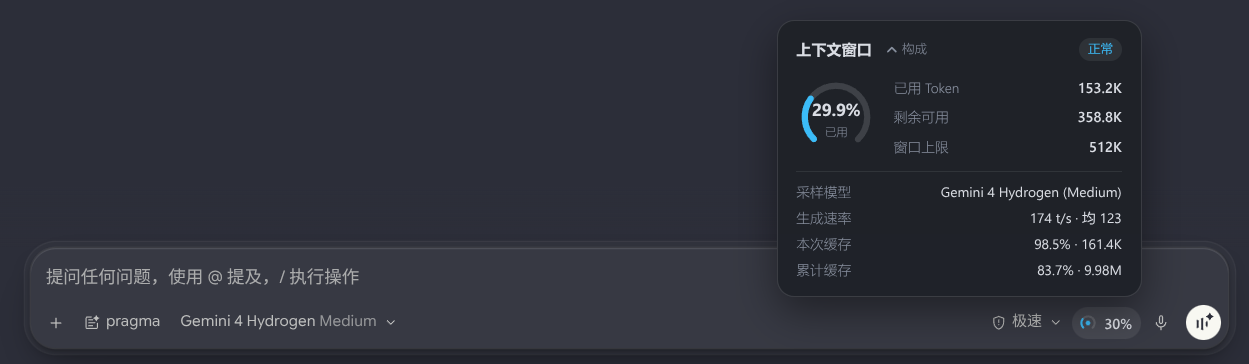
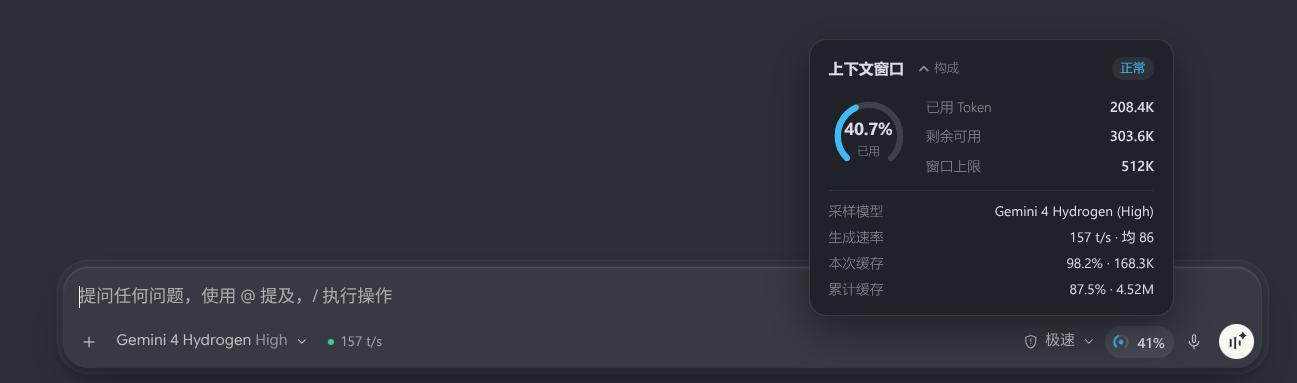
feat: 适配 Antigravity v2.35.2 汉化，修复模型用量配额实时扣减丢失「% 剩余」后缀（Issue #13），同步插件市场新增及改版插件并清理过期词条
- 同步更新 `README.md` 与 `AGENTS.md` 中的汉化版本、匹配客户端版本（v2.35.2）及最近更新日期（2026-11-26）。
- 修复 `localization_engine.js` 中 `translateCombinedTextChildren()` 清空 React 静态兄弟文本节点导致配额百分比实时变动后丢失「% 剩余」后缀的问题（Issue #13 @DEXTERKEY）：新增 `applyCombinedTextRunPreservingAnchors()`，对数字/百分比及原样保留的动态文本节点实行边界锚定与原地保留，仅将译文前后缀写回相邻静态兄弟节点，从根源避免同类 React 局部刷新丢失前后缀。
- 补充 `dicts/release.json` v2.35.2 新增界面与 `/btw` 提示词条（`Create a project on this computer or remotely.`、`Applies to /btw and messages sent after this turn`、`Applies to messages sent after this turn`、`Clone from This Computer`、`Search Repositories…`），并经客户端 `main.js` 源码检索后清理 7 条已下架的 Argon/Neon/Carbon 编排器及模型运行态锁定过期词条。
- 同步 `dicts/marketplace_plugins.json` 官方插件市场：新增 `mass-spectrometry` 与 `anydo` 卡片简介及建议提示词，原位替换 `kling-ai` 与 `mumo` 改版简介与提示词并清理旧文案，保持插件市场（109/109 款）与 MCP 商店（99/99 款）100% 同步。
- 更新 `showimg/showcontext.png` 展示截图。

diff --git a/localization_engine.js b/localization_engine.js
@@ -5798,6 +5798,137 @@ function getModelUnavailableRetryTranslation(value) {
         return null;
     }
 
+    function applyCombinedTextRunPreservingAnchors(textRun, translated) {
+        if (!textRun || textRun.length < 2 || !translated) return false;
+
+        const isAsciiWordChar = ch => Boolean(ch) && /[A-Za-z0-9]/.test(ch);
+        const hasCleanBoundary = (str, start, end, token) => {
+            if (!token) return false;
+            if (isAsciiWordChar(token[0]) && start > 0 && isAsciiWordChar(str[start - 1])) return false;
+            if (isAsciiWordChar(token[token.length - 1]) && end < str.length && isAsciiWordChar(str[end])) return false;
+            return true;
+        };
+        const countOccurrences = (str, sub, fromIdx) => {
+            let count = 0;
+            let idx = fromIdx;
+            while (idx <= str.length - sub.length) {
+                const found = str.indexOf(sub, idx);
+                if (found < 0) break;
+                if (hasCleanBoundary(str, found, found + sub.length, sub)) {
+                    count++;
+                    idx = found + sub.length;
+                } else {
+                    idx = found + 1;
+                }
+            }
+            return count;
+        };
+        const findNextMatch = (str, sub, fromIdx) => {
+            let idx = fromIdx;
+            while (idx <= str.length - sub.length) {
+                const found = str.indexOf(sub, idx);
+                if (found < 0) return -1;
+                if (hasCleanBoundary(str, found, found + sub.length, sub)) return found;
+                idx = found + 1;
+            }
+            return -1;
+        };
+
+        const tryAnchorIndices = candidateIndices => {
+            if (!candidateIndices || candidateIndices.length === 0) return false;
+            const matched = [];
+            let cursor = 0;
+
+            for (let ci = 0; ci < candidateIndices.length; ci++) {
+                const nodeIdx = candidateIndices[ci];
+                const raw = textRun[nodeIdx].nodeValue || '';
+                if (!raw) return false;
+
+                let pos = -1;
+                if (nodeIdx === 0) {
+                    if (translated.startsWith(raw) && hasCleanBoundary(translated, 0, raw.length, raw)) {
+                        pos = 0;
+                    }
+                } else if (nodeIdx === textRun.length - 1) {
+                    const endPos = translated.length - raw.length;
+                    if (endPos >= cursor && translated.endsWith(raw) && hasCleanBoundary(translated, endPos, translated.length, raw)) {
+                        pos = endPos;
+                    }
+                } else {
+                    let remainingSame = 1;
+                    for (let cj = ci + 1; cj < candidateIndices.length; cj++) {
+                        if ((textRun[candidateIndices[cj]].nodeValue || '') === raw) remainingSame++;
+                    }
+                    if (countOccurrences(translated, raw, cursor) === remainingSame) {
+                        pos = findNextMatch(translated, raw, cursor);
+                    }
+                }
+
+                if (pos < cursor) return false;
+                if (matched.length > 0) {
+                    const prev = matched[matched.length - 1];
+                    const between = translated.slice(prev.pos + prev.raw.length, pos);
+                    if (between && nodeIdx - prev.index <= 1) return false;
+                }
+
+                matched.push({ index: nodeIdx, raw, pos });
+                cursor = pos + raw.length;
+            }
+
+            const first = matched[0];
+            const last = matched[matched.length - 1];
+            const tail = translated.slice(last.pos + last.raw.length);
+            if (tail && last.index >= textRun.length - 1) return false;
+
+            const updates = new Array(textRun.length).fill('');
+            if (first.pos > 0) {
+                updates[first.index - 1] = translated.slice(0, first.pos);
+            }
+            for (let mi = 0; mi < matched.length; mi++) {
+                const cur = matched[mi];
+                updates[cur.index] = cur.raw;
+                if (mi + 1 < matched.length) {
+                    const next = matched[mi + 1];
+                    const between = translated.slice(cur.pos + cur.raw.length, next.pos);
+                    if (between) updates[cur.index + 1] = between;
+                }
+            }
+            if (tail) {
+                updates[last.index + 1] = tail;
+            }
+
+            for (let i = 0; i < textRun.length; i++) {
+                replaceTextNode(textRun[i], updates[i]);
+            }
+            return true;
+        };
+
+        const numericCandidates = [];
+        for (let i = 0; i < textRun.length; i++) {
+            const raw = textRun[i].nodeValue || '';
+            if (/^\\s*\\d+(?:[.,]\\d+)*%?\\s*$/.test(raw)) {
+                numericCandidates.push(i);
+            }
+        }
+        if (numericCandidates.length > 0 && tryAnchorIndices(numericCandidates)) {
+            return true;
+        }
+
+        const verbatimCandidates = [];
+        for (let i = 0; i < textRun.length; i++) {
+            const raw = textRun[i].nodeValue || '';
+            const trimmed = raw.trim();
+            if (trimmed.length >= 2 && /[0-9A-Za-z]/.test(trimmed) && translated.includes(raw)) {
+                verbatimCandidates.push(i);
+            }
+        }
+        if (verbatimCandidates.length > 0 && tryAnchorIndices(verbatimCandidates)) {
+            return true;
+        }
+
+        return false;
+    }
+
     function translateCombinedTextChildren(element) {
         if (!element || element.nodeType !== Node.ELEMENT_NODE || !element.childNodes || element.childNodes.length < 2) {
             return false;
@@ -5822,6 +5953,7 @@ function getModelUnavailableRetryTranslation(value) {
             const original = textRun.map(textNode => textNode.nodeValue || '').join('');
             const translated = getCombinedStatusTranslation(original, element);
             if (!translated || translated === original) return false;
+            if (applyCombinedTextRunPreservingAnchors(textRun, translated)) return true;
             replaceTextNode(textRun[0], translated);
             for (let i = 1; i < textRun.length; i++) replaceTextNode(textRun[i], '');
             return true;

diff --git a/README.md b/README.md
@@ -4,15 +4,15 @@
 >
 > **语言支持**：简体中文
 >
-> **汉化版本**：v2.35.1
+> **汉化版本**：v2.35.2
 >
-> **匹配版本**：Antigravity v2.35.1
+> **匹配版本**：Antigravity v2.35.2
 >
-> **最近更新**：2026-11-25
+> **最近更新**：2026-11-26
 >
 > **核心运行环境**： Node.js
 >
-> **汉化范围**：当前 v2.35.1 词典面向 Antigravity v2.35.1，覆盖主界面、顶部系统菜单、标签页与编辑器原生右键菜单、任务栏菜单、加载页、设置面板、新手引导与登录流程、对话及自动化/计划任务管理、个性化定制与插件市场、MCP 服务器商店，以及各类动态状态、提示和操作反馈。少量内容可能因客户端异步渲染、第三方嵌入或官方后续新增界面而暂未覆盖。
+> **汉化范围**：当前 v2.35.2 词典面向 Antigravity v2.35.2，覆盖主界面、顶部系统菜单、标签页与编辑器原生右键菜单、任务栏菜单、加载页、设置面板、新手引导与登录流程、对话及自动化/计划任务管理、个性化定制与插件市场、MCP 服务器商店，以及各类动态状态、提示和操作反馈。少量内容可能因客户端异步渲染、第三方嵌入或官方后续新增界面而暂未覆盖。
 >
 > **注入原理**：通过 ASAR 还原与重包，安全注入 `preload.js` 动态翻译机制，macOS 端自动完成隔离属性清除与由内而外应用自签名，绝不修改核心二进制，一键安装与完美还原。
 

diff --git a/AGENTS.md b/AGENTS.md
@@ -4,7 +4,7 @@
 
 ## 1. 当前目标与权威基准
 
-- **当前版本**：当前汉化发布版本为 **v2.35.1**，匹配官方 **Antigravity v2.35.1** 客户端。当前版本独立词典固定为 `dicts/release.json`（文件名不随版本变化，版本号仅在本文件与 `README.md` 中维护）；请始终保持版本号、发布日期与 `README.md` 一致。
+- **当前版本**：当前汉化发布版本为 **v2.35.2**，匹配官方 **Antigravity v2.35.2** 客户端。当前版本独立词典固定为 `dicts/release.json`（文件名不随版本变化，版本号仅在本文件与 `README.md` 中维护）；请始终保持版本号、发布日期与 `README.md` 一致。
 - **权威依据**：以仓库实际文件与可执行行为为准。进行版本升级时，直接在 `dicts/release.json` 上审慎增删迁移词条，严禁按版本号新建或重命名字典文件；该文件名须在字母序上排在其他分包字典之后（引擎按文件名排序加载，后加载者覆盖同名键）。保持面向用户的安装、还原、支持平台与路径说明与引擎逻辑严格一致。
 
 ## 2. 词典归属与语义规则
